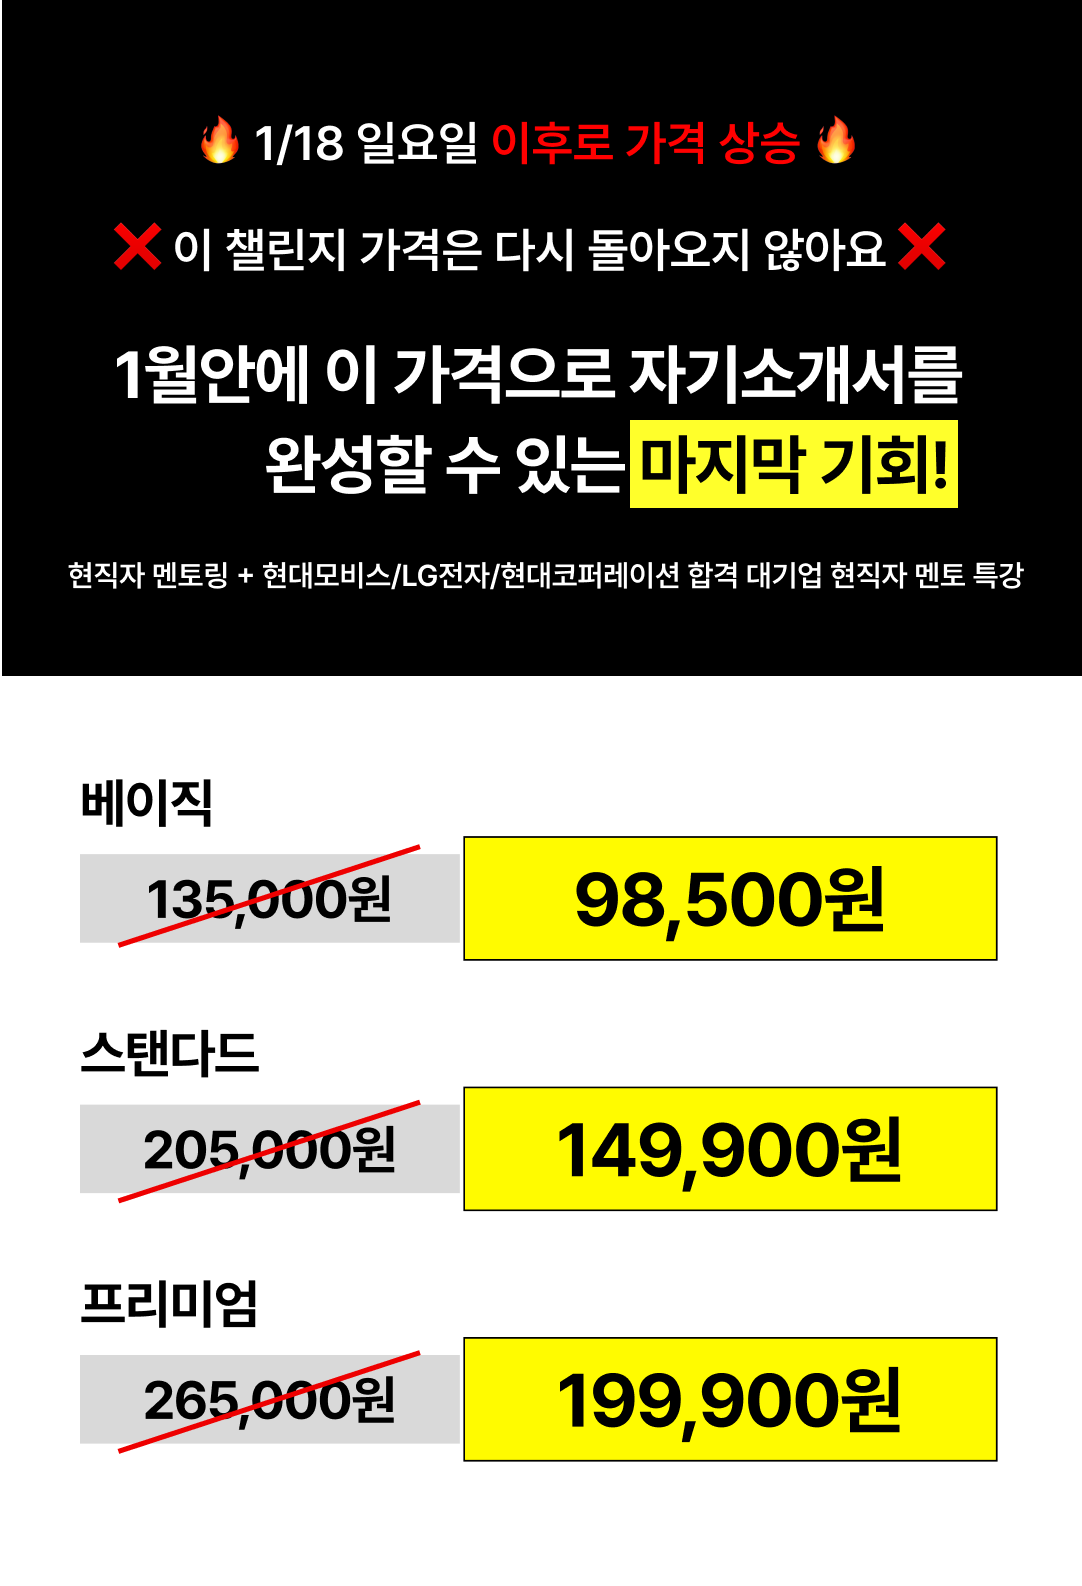
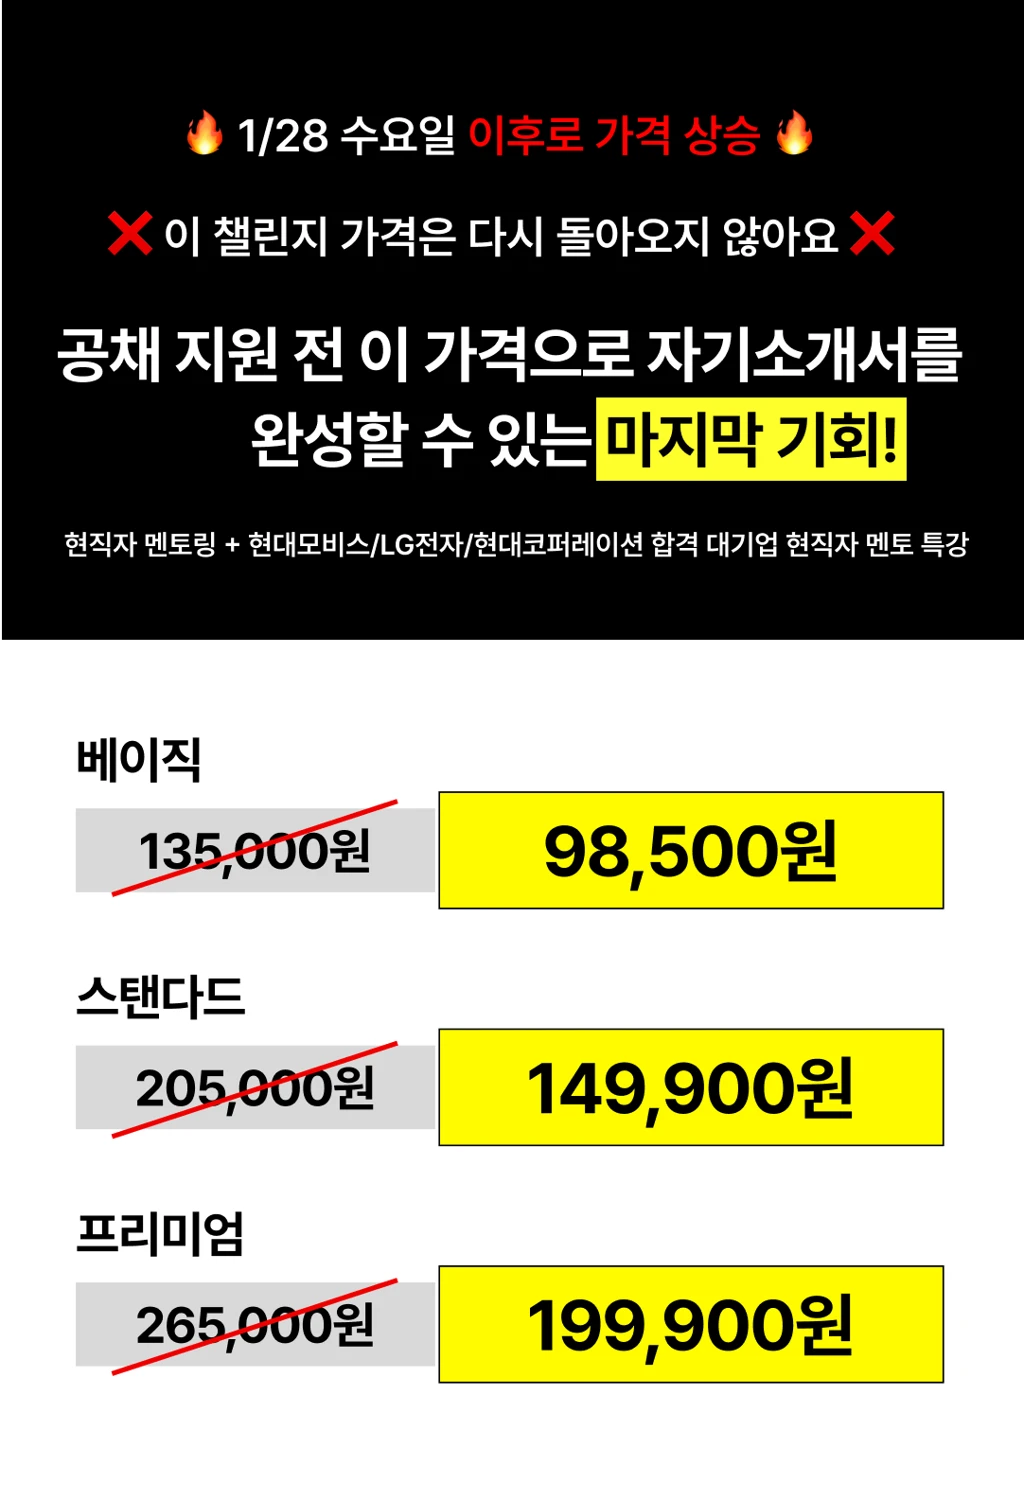
feat : 대기업 챌린지 7기 이미지 추가

diff --git a/src/domain/program/challenge/ChallengeView.tsx b/src/domain/program/challenge/ChallengeView.tsx
@@ -19,6 +19,8 @@ import {
 import useProgramStore from '@/store/useProgramStore';
 import { ChallengeContent } from '@/types/interface';
 
+import challengeDiscountImage from '@/assets/challenge-discount.png';
+import Image from 'next/image';
 import { useParams } from 'next/navigation';
 import { useEffect, useMemo } from 'react';
 import LexicalContent from '../../blog/ui/LexicalContent';
@@ -236,6 +238,14 @@ const ChallengeView: React.FC<{
             id={PROGRAM_INTRO_ID}
             className="challenge_program flex w-full flex-col items-center"
           >
+            {Number(id) === 192 && (
+              <Image
+                src={challengeDiscountImage}
+                alt="자기소개서 챌린지 할인 안내"
+                className="mt-20 w-full max-w-[44rem]"
+                priority
+              />
+            )}
             <section className="flex w-full flex-col items-center pt-[70px] md:pt-40">
               <ChallengePointView
                 challengeType={challenge.challengeType}
